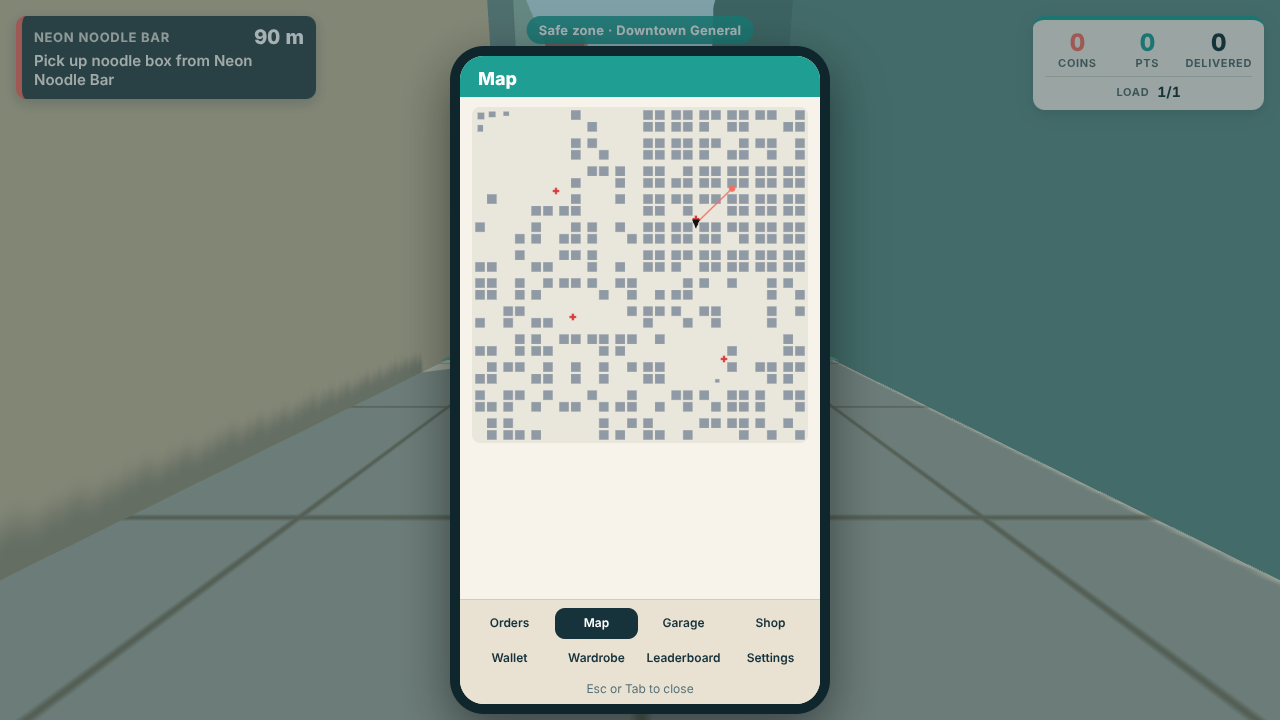
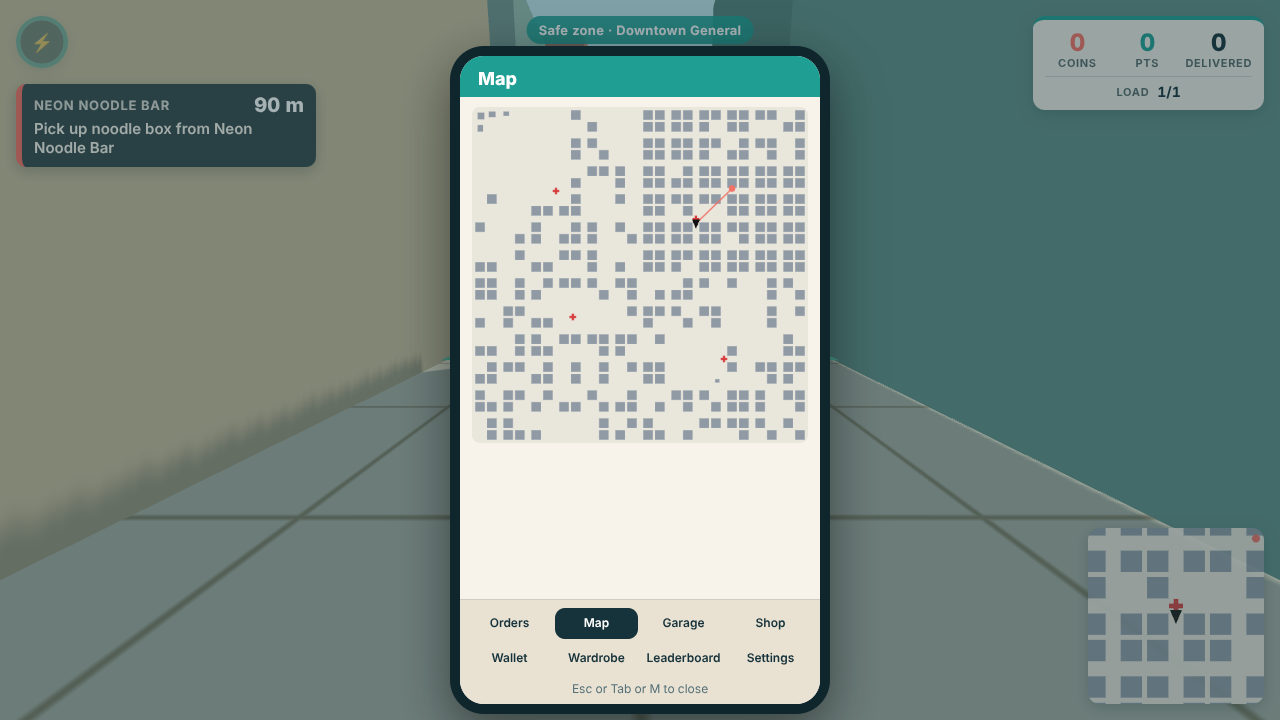
fix(e2e): cover the new offer interval and food prep wait
The Pages deploy on main failed: the smoke tests waited 15 s of sim for the
first offer, but offers now arrive within 18-30 s, and the pickup tests
advanced 15 ticks where a food pickup now sits through the 6 s prep countdown.
The first-offer wait is now one arrival interval plus slack (35 s) and the
pickup wait covers prep (7 s of ticks). Lockout comment: offers live 25 s.
Playtest screenshots regenerated by the run (stamina ring and minimap visible).

Claude-Session: https://claude.ai/code/session_01541LPqnnwS6s6urB7yTrva

Changed region(s): [[0.0, 0.0, 0.25, 0.2444], [0.8438, 0.7333, 1.0, 0.9778], [0.4375, 0.9472, 0.5625, 0.9778]]

diff --git a/packages/client/e2e/smoke.spec.ts b/packages/client/e2e/smoke.spec.ts
@@ -326,6 +326,10 @@ test('dev panel screenshot', async ({ page }) => {
 
 const TICK_RATE = 30;
 const SEED = '&seed=7';
+/** The first offer arrives within offers.maxIntervalSeconds (30 s); a little slack on top. */
+const FIRST_OFFER_S = 35;
+/** Ticks to stand at a food pickup: the prep countdown (orders.json prep.foodSeconds, 6 s) plus a second of slack. */
+const PICKUP_TICKS = 7 * TICK_RATE;
 
 /** Runs sim ticks until an offer is on the phone (at most `maxSeconds`); returns the sim seconds it took, or -1. */
 const advanceUntilOffer = (page: Page, maxSeconds: number): Promise<number> =>
@@ -348,7 +352,7 @@ async function hideOverlay(page: Page): Promise<void> {
 
 /** Waits for an offer and accepts it with Y; returns the accepted order id. */
 async function acceptWithY(page: Page): Promise<string> {
-  expect(await advanceUntilOffer(page, 15)).toBeGreaterThanOrEqual(0);
+  expect(await advanceUntilOffer(page, FIRST_OFFER_S)).toBeGreaterThanOrEqual(0);
   const id = await page.evaluate(() => window.__dm!.offers()[0]!.order.id);
   await page.keyboard.press('KeyY');
   await page.waitForFunction(() => window.__dm!.active().length === 1);
@@ -384,10 +388,10 @@ test('spawns at a hospital inside its safe zone', async ({ page }) => {
   expect(errors).toEqual([]);
 });
 
-test('an offer appears within 15 s of sim time and Y accepts it', async ({ page }) => {
+test('an offer appears within one arrival interval of sim time and Y accepts it', async ({ page }) => {
   const errors = await boot(page, SEED);
   await page.waitForFunction(() => window.__dm?.player().mode === 'ground');
-  const took = await advanceUntilOffer(page, 15);
+  const took = await advanceUntilOffer(page, FIRST_OFFER_S);
   console.log(`first offer after ${took.toFixed(2)} s of sim`);
   expect(took).toBeGreaterThanOrEqual(0);
   const id = await page.evaluate(() => window.__dm!.offers()[0]!.order.id);
@@ -405,7 +409,7 @@ test('teleport to the pickup then the dropoff completes the order with points', 
   await acceptWithY(page);
   const order = await page.evaluate(() => window.__dm!.active()[0]!.order);
   await standAt(page, order.pickupPoiId);
-  await page.evaluate(() => window.__dm!.advance(15));
+  await page.evaluate((n) => window.__dm!.advance(n), PICKUP_TICKS);
   expect(await page.evaluate(() => window.__dm!.active()[0]?.pickedUpAt ?? null)).not.toBeNull();
   // Let the "accepted" and "picked up" popups expire (wall-clock, 3.5 s) so the delivery popup stands alone in the shot.
   await expect(page.locator('.popup')).toHaveCount(0, { timeout: 10_000 });
@@ -465,7 +469,7 @@ test('cancelling starts the lockout and no offer appears for 45 s', async ({ pag
       // Offers already on the phone at the cancel may stay until they expire; anything else is new.
       const seen = new Set(before);
       const fresh = new Set<string>(window.__dm!.offers().filter((o) => !seen.has(o.order.id)).map((o) => o.order.id));
-      // The rest of the 45 s lockout, tick by tick (offers live 20 s, so one that came while the render loop ran the
+      // The rest of the 45 s lockout, tick by tick (offers live 25 s, so one that came while the render loop ran the
       // first ticks would still be on the phone above).
       while (window.__dm!.tick < t0 + 45 * rate) {
         window.__dm!.advance(1);
@@ -564,7 +568,7 @@ test('phone: Tab opens Orders, Map and Wallet render; Esc closes', async ({ page
   const errors = await boot(page, SEED);
   await page.waitForFunction(() => window.__dm?.player().mode === 'ground');
   await hideOverlay(page);
-  expect(await advanceUntilOffer(page, 15)).toBeGreaterThanOrEqual(0);
+  expect(await advanceUntilOffer(page, FIRST_OFFER_S)).toBeGreaterThanOrEqual(0);
   await page.keyboard.press('Tab');
   await page.waitForFunction(() => window.__dm!.phoneOpen());
   await expect(page.locator('.phone')).toBeVisible();
@@ -614,7 +618,7 @@ test('HUD screenshot with an active order', async ({ page }) => {
   // Picked up, so the HUD shows the order's timer and the beam leads to the dropoff.
   const order = await page.evaluate(() => window.__dm!.active()[0]!.order);
   await standAt(page, order.pickupPoiId);
-  await page.evaluate(() => window.__dm!.advance(15));
+  await page.evaluate((n) => window.__dm!.advance(n), PICKUP_TICKS);
   expect(await page.evaluate(() => window.__dm!.active()[0]?.pickedUpAt ?? null)).not.toBeNull();
   // A few metres on from the pickup toward the dropoff, looking at it, so the pickup's marker is behind the camera.
   await page.evaluate((id) => {
